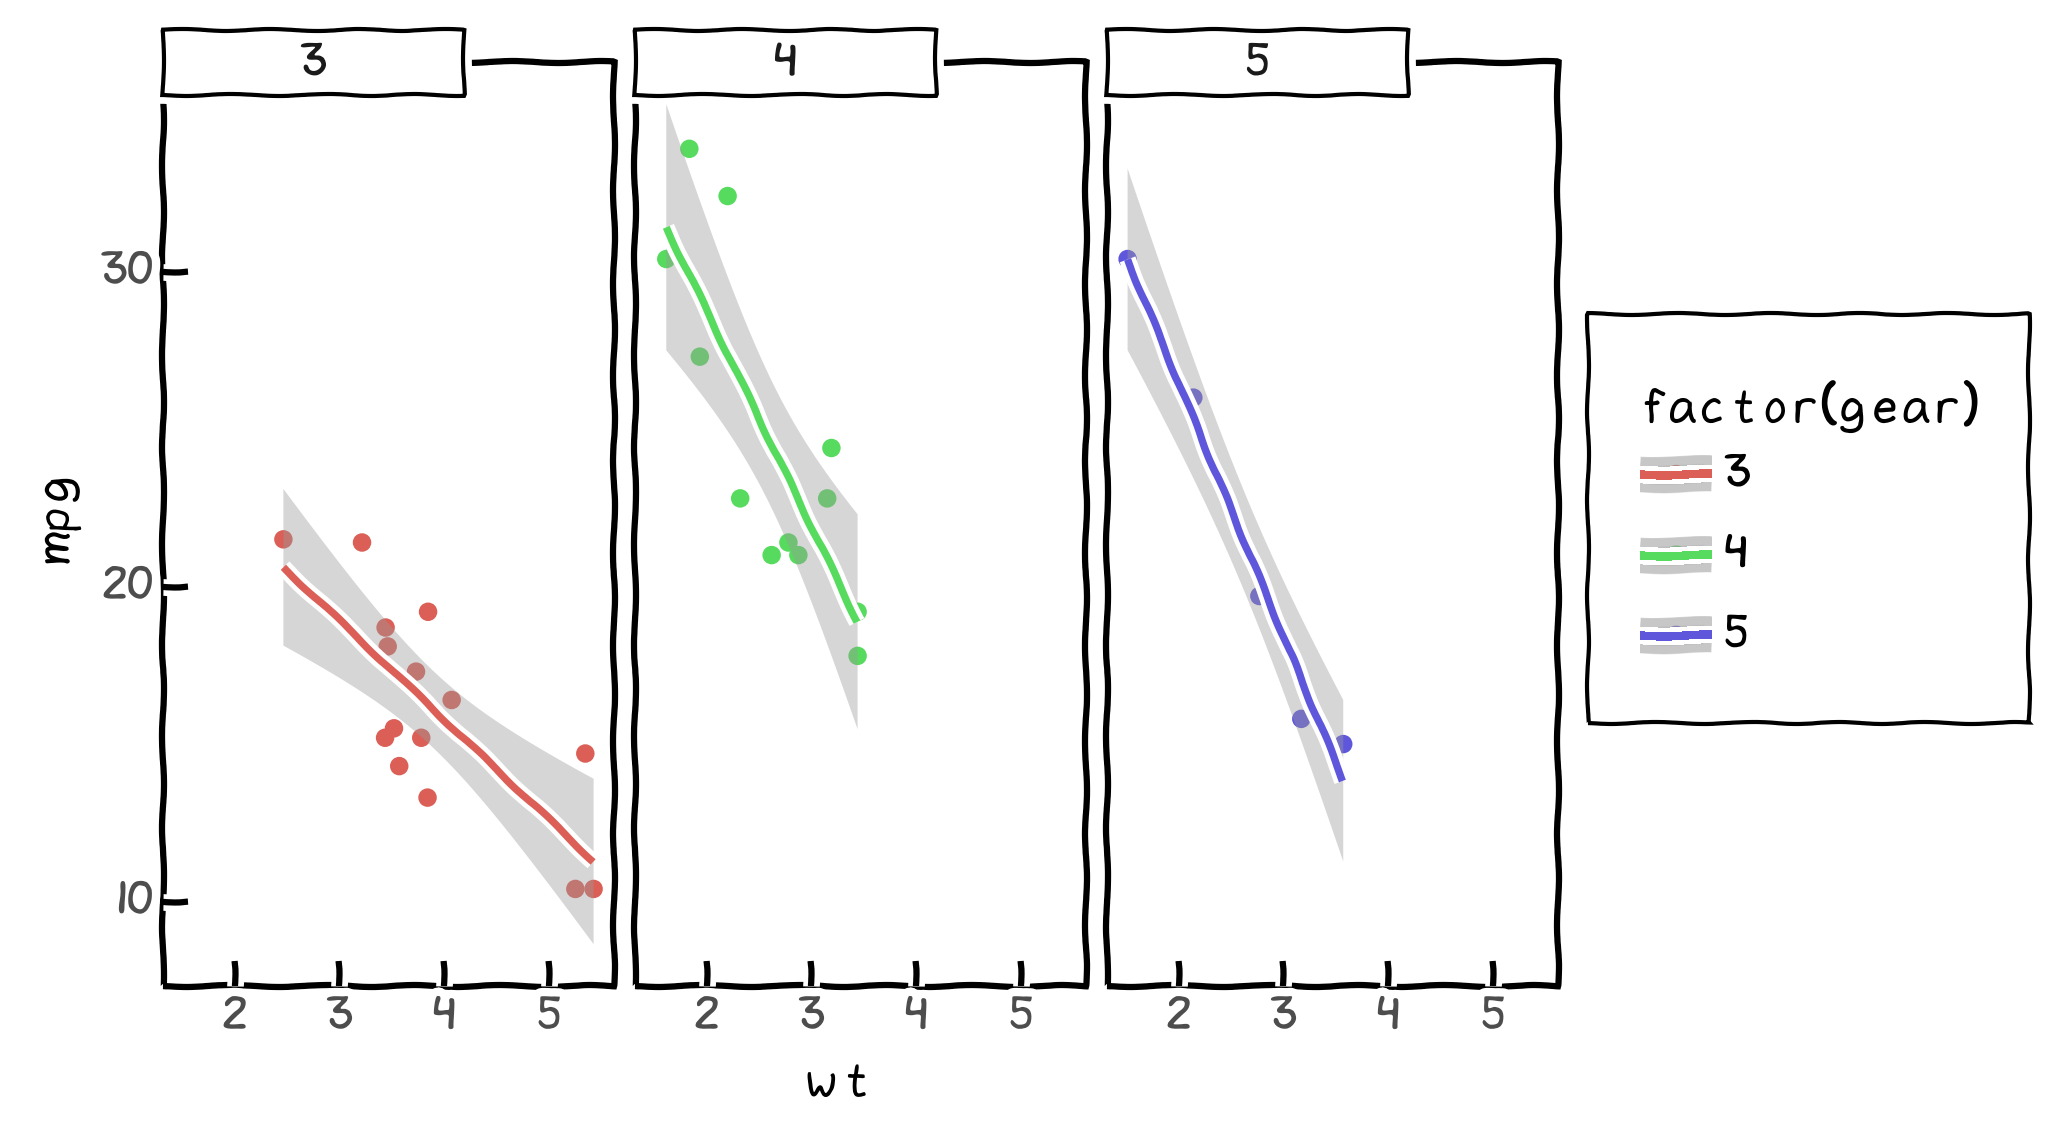
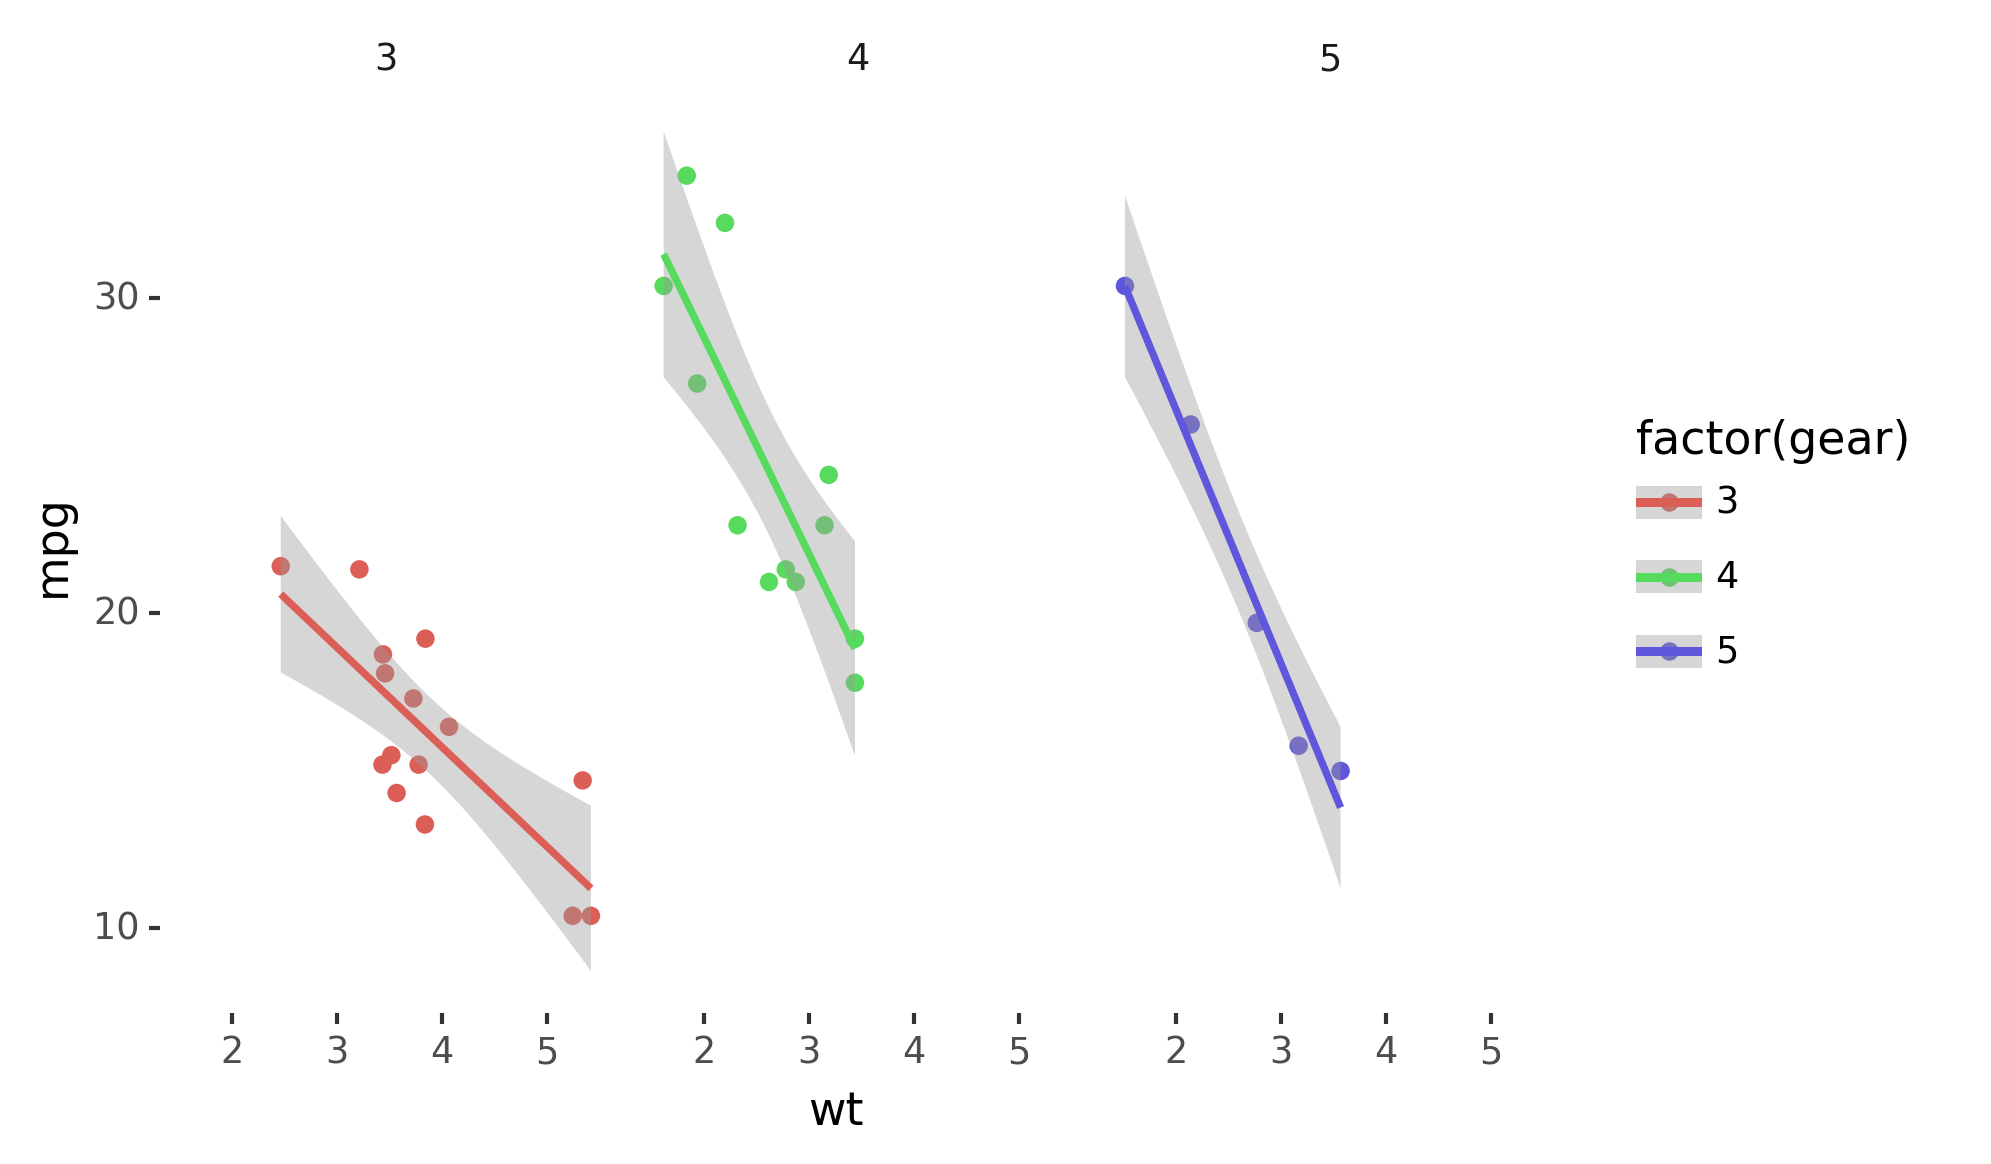
Fix wrong image on readme page

diff --git a/doc/images/readme_images.py b/doc/images/readme_images.py
@@ -29,4 +29,4 @@ p5 = p4 + theme_xkcd()
 p5.save('readme-image-5.png', **kwargs)
 
 p5alt = p4 + theme_tufte()
-p5.save('readme-image-5alt.png', **kwargs)
+p5alt.save('readme-image-5alt.png', **kwargs)
